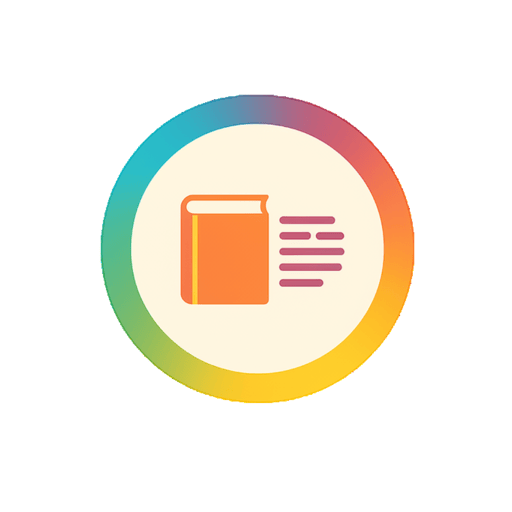
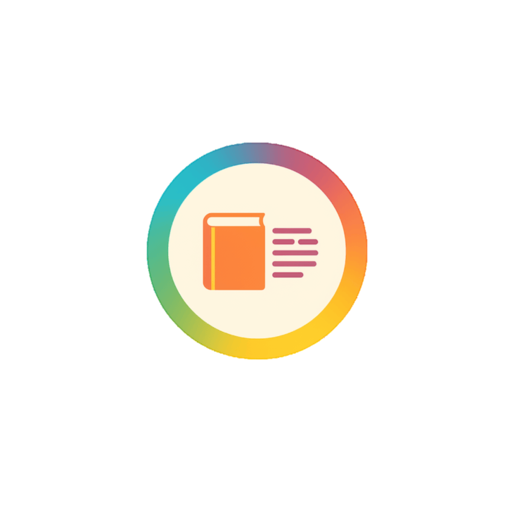
chore(release): v{{currentVersion}}

Changed region(s): [[0.1875, 0.1562, 0.8125, 0.8125]]

diff --git a/CHANGELOG.md b/CHANGELOG.md
@@ -3,6 +3,13 @@
 [Feedic](https://github.com/jade-kim/gemini-feedic)의 모든 주목할만한 변경 사항이 이 파일에 기록됩니다.
 
 이 프로젝트는 [Semantic Versioning](https://semver.org/)을 따르며 [Conventional Commits](https://conventionalcommits.org/)를 사용합니다.
+### [1.7.2](https://github.com/jade-kim/gemini-feedic/compare/v1.7.1...v1.7.2) (2025-09-19)
+
+
+### 🐞 버그 수정
+
+* PWA 스피너 크기 최적화 ([deaec67](https://github.com/jade-kim/gemini-feedic/commit/deaec673f0b921c0a8fa30018584ec75beeae73b))
+
 ### [1.7.1](https://github.com/jade-kim/gemini-feedic/compare/v1.7.0...v1.7.1) (2025-09-19)
 
 
